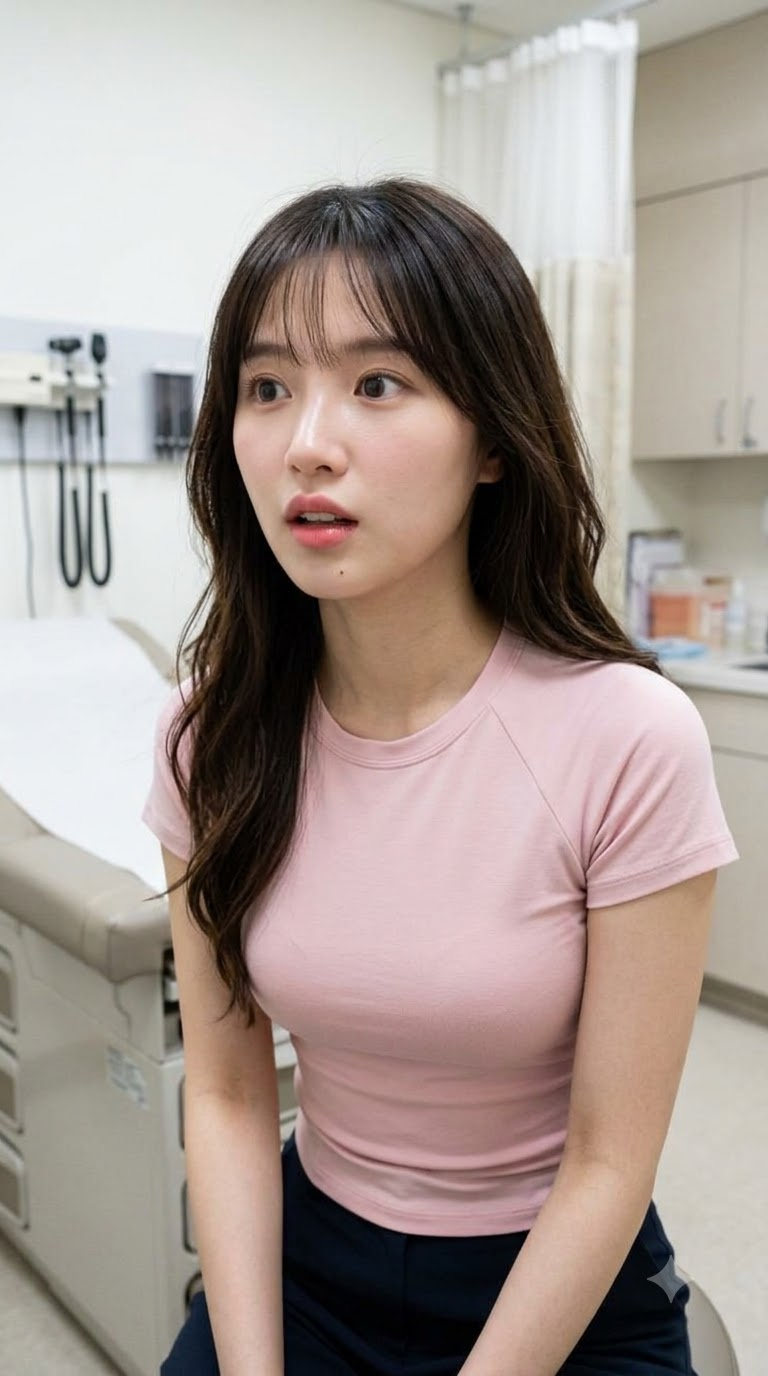
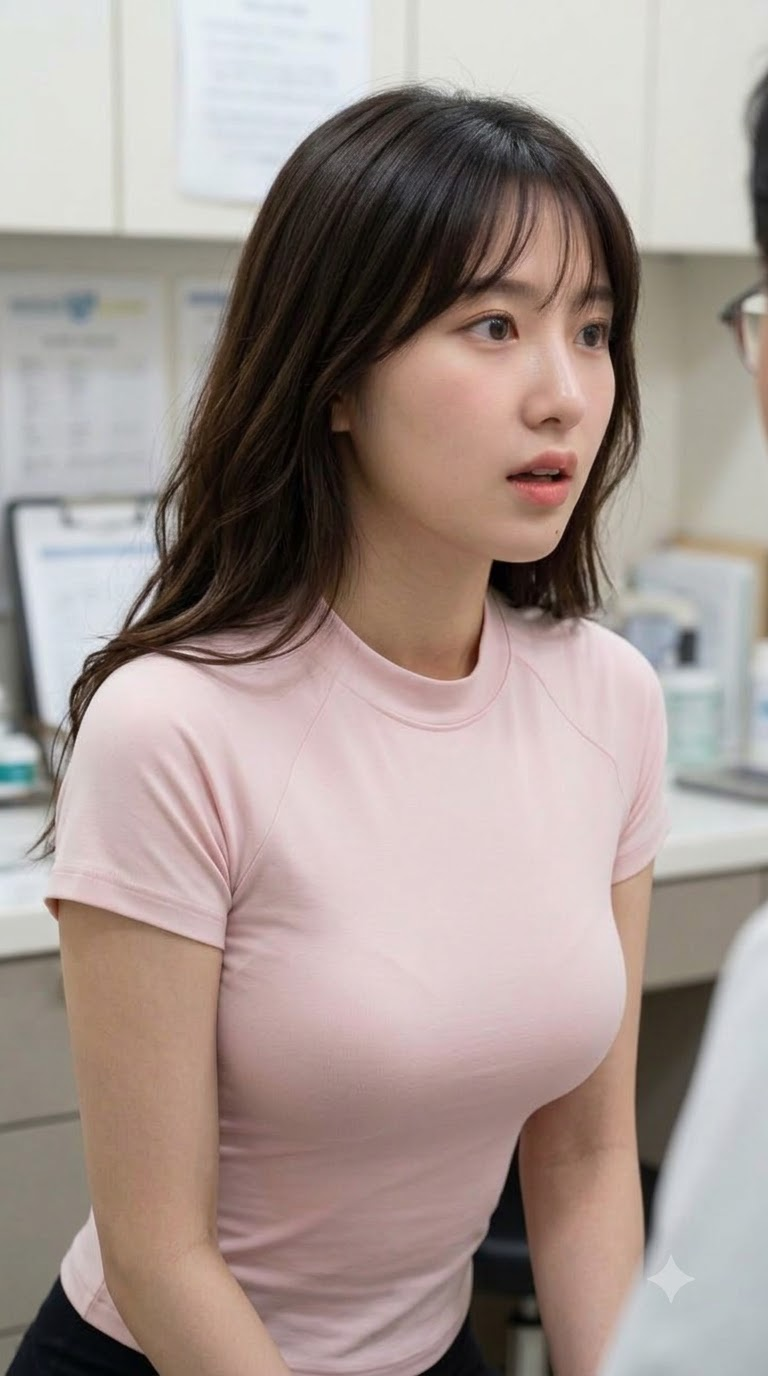
ep007: approve v5 frames sh010/sh030 (bust fuller, pastel tee), approve all 4 shots for generation
- Canonical frames now v5 (sh010 3e618146, sh030 72637f1f), Flow assets
  5c07830b (sh010) / bb070fd7 (sh030); v2-v5 backups preserved
- Image prompts tightened: extremely full padded bust, shirt pink
  identical across both shots and matching the flat-lay ref
- Shirt color note: hue/saturation match ref, lightness differs ~11
  points (sh010 L70 vs sh030 L81) from scene lighting; approved as-is
- Master file note: thao-my-face-front-v002.png is the outdoor selfie
  (720x1280, sha 8793c0ce), not the grey-background portrait
- episode.yaml: approved_for_generation true for all 4 shots

diff --git a/05_episodes/ep007-kham-benh/script.md b/05_episodes/ep007-kham-benh/script.md
@@ -1,6 +1,6 @@
 # ep007 — Khám Bệnh
 
-Trạng thái: draft, 4 frame đã làm xong 19/11 (Flow Nano Banana, 0 credit, project CNTM · EP019 · Khám Bệnh — tên project Flow chưa đổi, tập đổi số từ ep019 thành ep007 ngày 20/11), đang chờ Richard duyệt frame rồi mới gen clip. Thảo My + bác sĩ nam (nhân vật một lần, không thuộc series 13 chàng trai).
+Trạng thái: draft, frame sh010/sh030 v5 ĐÃ DUYỆT 20/11 17:54, đang gen 4 clip take001 (Flow Nano Banana frame 0 credit, project CNTM · EP019 · Khám Bệnh — tên project Flow chưa đổi, tập đổi số từ ep019 thành ep007 ngày 20/11). Thảo My + bác sĩ nam (nhân vật một lần, không thuộc series 13 chàng trai).
 
 ## Ý tưởng và twist
 
@@ -43,7 +43,7 @@ Thảo My đi khám vì tức ngực, khó thở. Bác sĩ hỏi có bảo hiể
 
 ## Sản phẩm lồng ghép
 
-- Áo Thảo My mặc trong tập là sản phẩm affiliate: áo thun chiết eo có mút rời, màu Hồng Pastel (KVK KIVIKA FITWEAR), link aff-0004 https://s.shopee.vn/8fU4QqQvWj — Richard gửi 20/11, đang chờ xác minh đích. Xem `wardrobe.md` và `04_products/prd-0004/README.md`. Chưa gắn vào bài, chưa đăng.
+- Áo Thảo My mặc trong tập là sản phẩm affiliate: áo thun chiết eo có mút rời, màu Hồng Pastel (KVK KIVIKA FITWEAR), link aff-0004 https://s.shopee.vn/8fU4QqQvWj — Richard gửi 20/11, ĐÍCH ĐÃ XÁC MINH 20/11. Xem `wardrobe.md` và `04_products/prd-0004/README.md`. Chưa gắn vào bài, chưa đăng.
 
 ## Frame đã làm (19/11, v1 len hồng đậm)
 
@@ -59,6 +59,13 @@ Thảo My đi khám vì tức ngực, khó thở. Bác sĩ hỏi có bảo hiể
 - sh010 + sh030 làm lại 1 lần từ master v002 (Nano Banana, 0 credit), asset Flow chung `00c69f98-0917-4f2e-a10b-c9a01671a547` (sh010 gen 1, sh030 gen 2 trong cùng asset). Ảnh ref áo chỉ ghi bằng chữ trong prompt (upload file vào Flow không mở được picker) nhưng frame ra đúng: áo thun hồng pastel trơn mịn, cổ tròn, tay raglan, chiết eo bó sát — không dệt kim, không hồng đậm.
 - Tự soi trên file tải về: mặt khớp v002 cả 2, nốt ruồi cằm trái có cả 2 (sh010 soi zoom thấy), son hồng nhạt, quần tối màu. sh010: tay ôm ngực, bác sĩ nam nghiêng mặt bên phải khung (hết lỗi tóc nữ ở v1). sh030: nghiêng người về trước, tò mò.
 - Cả 2 đều 768×1376, vẫn có dấu sao watermark nhỏ góc dưới phải.
+
+## Frame làm lại tiếp (20/11, v3 → v5)
+
+- **v3**: Richard bác 14:30 — ngực chưa đủ căng. Làm lại cả 2, giữ tên `*-v3-padded.jpg`. QC: sh010 ngực đầy hơn nhưng khung trôi rộng (thấy cả chân); sh030 gần như trùng bố cục sh010, không nghiêng về trước, không cận vừa, ngực không đầy hơn v2 rõ. Không đưa lên canonical.
+- **v4**: làm lại cả 2, siết khung (sh010 waist-up, sh030 cận ngực 3/4) + tăng ngực một nấc, giữ tên `*-v4-padded.jpg`. QC đạt khung hình + ngực đầy hơn, son sh010 hơi đậm hơn master. Richard bác 17:01: màu áo 2 frame hơi khác, ngực cần to và căng hơn. Đo HLS: sh010 L72, sh030 L83 (ref L87) — hue/saturation khớp, lệch ở lightness do ánh sáng cảnh.
+- **v5 (ĐÃ DUYỆT 17:54)**: làm lại cả 2, ngực tăng thêm một nấc ("rất to, căng cực kỳ"), khóa màu 2 frame giống hệt nhau + khớp ref. Asset Flow riêng: sh010 `5c07830b-85c6-48da-b3de-8fb17a9fde41`, sh030 `bb070fd7-871c-4cfc-9315-67c19067e23a` (upload master mới từng shot; asset cũ cùng tên trong project là frame phòng khám, không phải master). QC trên file tải về: ngực rất to, tròn, áo căng cực kỳ cả 2; khung đúng khóa; mặt khớp v002; nốt ruồi cằm trái còn cả 2 (soi zoom, hơi mờ); son hồng nhạt đúng cả 2. Màu áo: hue/saturation khớp ref, nhưng lightness vẫn lệch ~11 điểm (sh010 L70, sh030 L81) — Richard duyệt dù còn lệch này. Đưa lên canonical `sh010-first-frame.jpg` / `sh030-first-frame.jpg`, giữ tên `*-v5-padded.jpg`.
+- Lưu ý master: file mặt chuẩn `thao-my-face-front-v002.png` (sha 8793c0ce, 720×1280) là ảnh selfie ngoài trời, áo cardigan kem — không phải chân dung nền xám áo trắng; mọi frame ep007 đều sửa từ đúng file này.
 
 ## Tài sản và prompt
 

diff --git a/05_episodes/ep007-kham-benh/wardrobe.md b/05_episodes/ep007-kham-benh/wardrobe.md
@@ -1,11 +1,11 @@
 # ep007 — Khám Bệnh — Wardrobe: Thảo My
 
-Trạng thái: ref đã nhận 20/11/2026 từ Richard, frame sh010/sh030 ĐÃ làm lại 20/11 theo áo mới (v2, xem script.md). Tập đổi số từ ep019 thành ep007 ngày 20/11.
+Trạng thái: ref đã nhận 20/11/2026 từ Richard, frame sh010/sh030 v5 ĐÃ DUYỆT 20/11 (17:54) — ngực rất to, căng cực kỳ, áo pastel bó sát; đang gen 4 clip take001. Tập đổi số từ ep019 thành ep007 ngày 20/11.
 
 ## Áo Thảo My — chốt theo ref Richard gửi 20/11
 
 - Sản phẩm: áo thun chiết eo có mút rời, KVK KIVIKA FITWEAR.
-- Màu dùng trong tập: **Hồng Pastel** (chỉ màu này; listing có 4 màu: Đen, Trắng, Xám than, Hồng pastel).
+- Màu dùng trong tập: **Hồng Pastel** (chỉ màu này; listing có 4 màu: Đen, Trắng, Xám than, Hồng pastel). QUY TẮC MÀU 20/11 (Richard dặn): màu hồng trên frame/clip phải khớp đúng màu áo thật đang bán — không đậm hơn, không bão hòa hơn, không lệch sang hồng đậm/hồng cánh sen — vì khán giả mua theo đúng màu nhìn thấy.
 - Kiểu: ngắn tay, cổ tròn, tay raglan, vải trơn mịn (không dệt kim), co giãn 4 chiều, thoáng mát, có mút rời bên trong.
 - Độ ôm: **bó sát, chiết eo, tôn dáng — phải nhìn rõ là đang chật**. Đây là điểm mấu chốt của cú chốt sh040 ("mặc chật thế thở làm sao được"), nên độ bó sát không được làm nhẹ đi.
 - Quần: quần dài tối màu đơn giản như kịch bản cũ. Ảnh mẫu mặc quần legging xám — KHÔNG dùng legging trong cảnh phòng khám, chỉ giữ quần tối màu.
@@ -30,5 +30,6 @@ Trạng thái: ref đã nhận 20/11/2026 từ Richard, frame sh010/sh030 ĐÃ l
 
 ## Affiliate
 
-- Link Richard gửi 20/11: https://s.shopee.vn/8fU4QqQvWj — ghi aff-0004 / prd-0004, đang chờ xác minh đích (trình duyệt đang mở link để đối chiếu với 2 ảnh ref).
+- Link Richard gửi 20/11: https://s.shopee.vn/8fU4QqQvWj — ghi aff-0004 / prd-0004, ĐÍCH ĐÃ XÁC MINH 20/11: đúng 'Áo Thun Thể Thao Nữ Chiết Eo Có Mút Ngực Rời, Áo Gym Yoga Ôm Dáng Co Giãn Mềm Mịn', 4 màu, size S/M/L.
+- Lưu ý màu 20/11: đo HLS vùng áo — ref flatlay H357 L87 S31; frame v5 sh010 L70, sh030 L81: hue/saturation khớp, lightness lệch ~11 điểm do ánh sáng cảnh sh010 tối hơn (không phải nhuộm khác màu). Richard duyệt v5 dù còn lệch lightness này.
 - Chưa gắn vào bài, chưa đăng.
